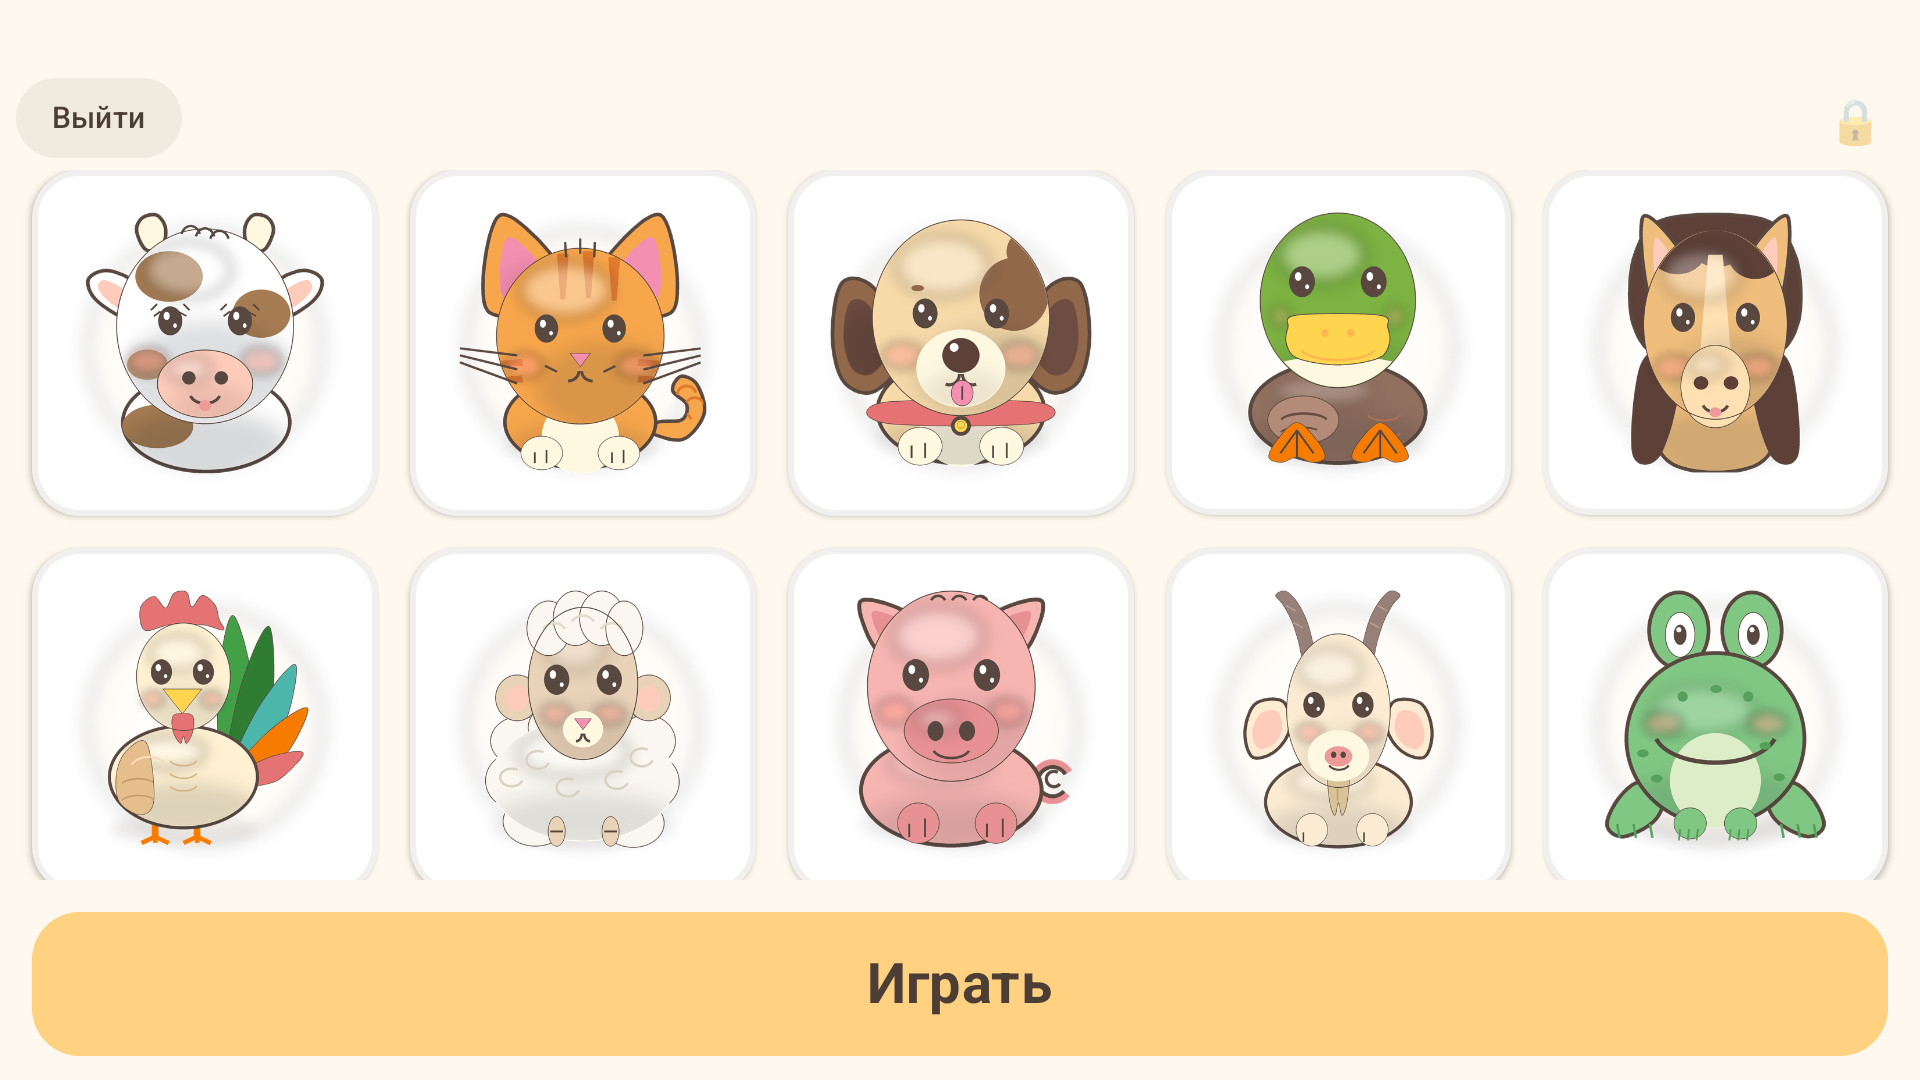
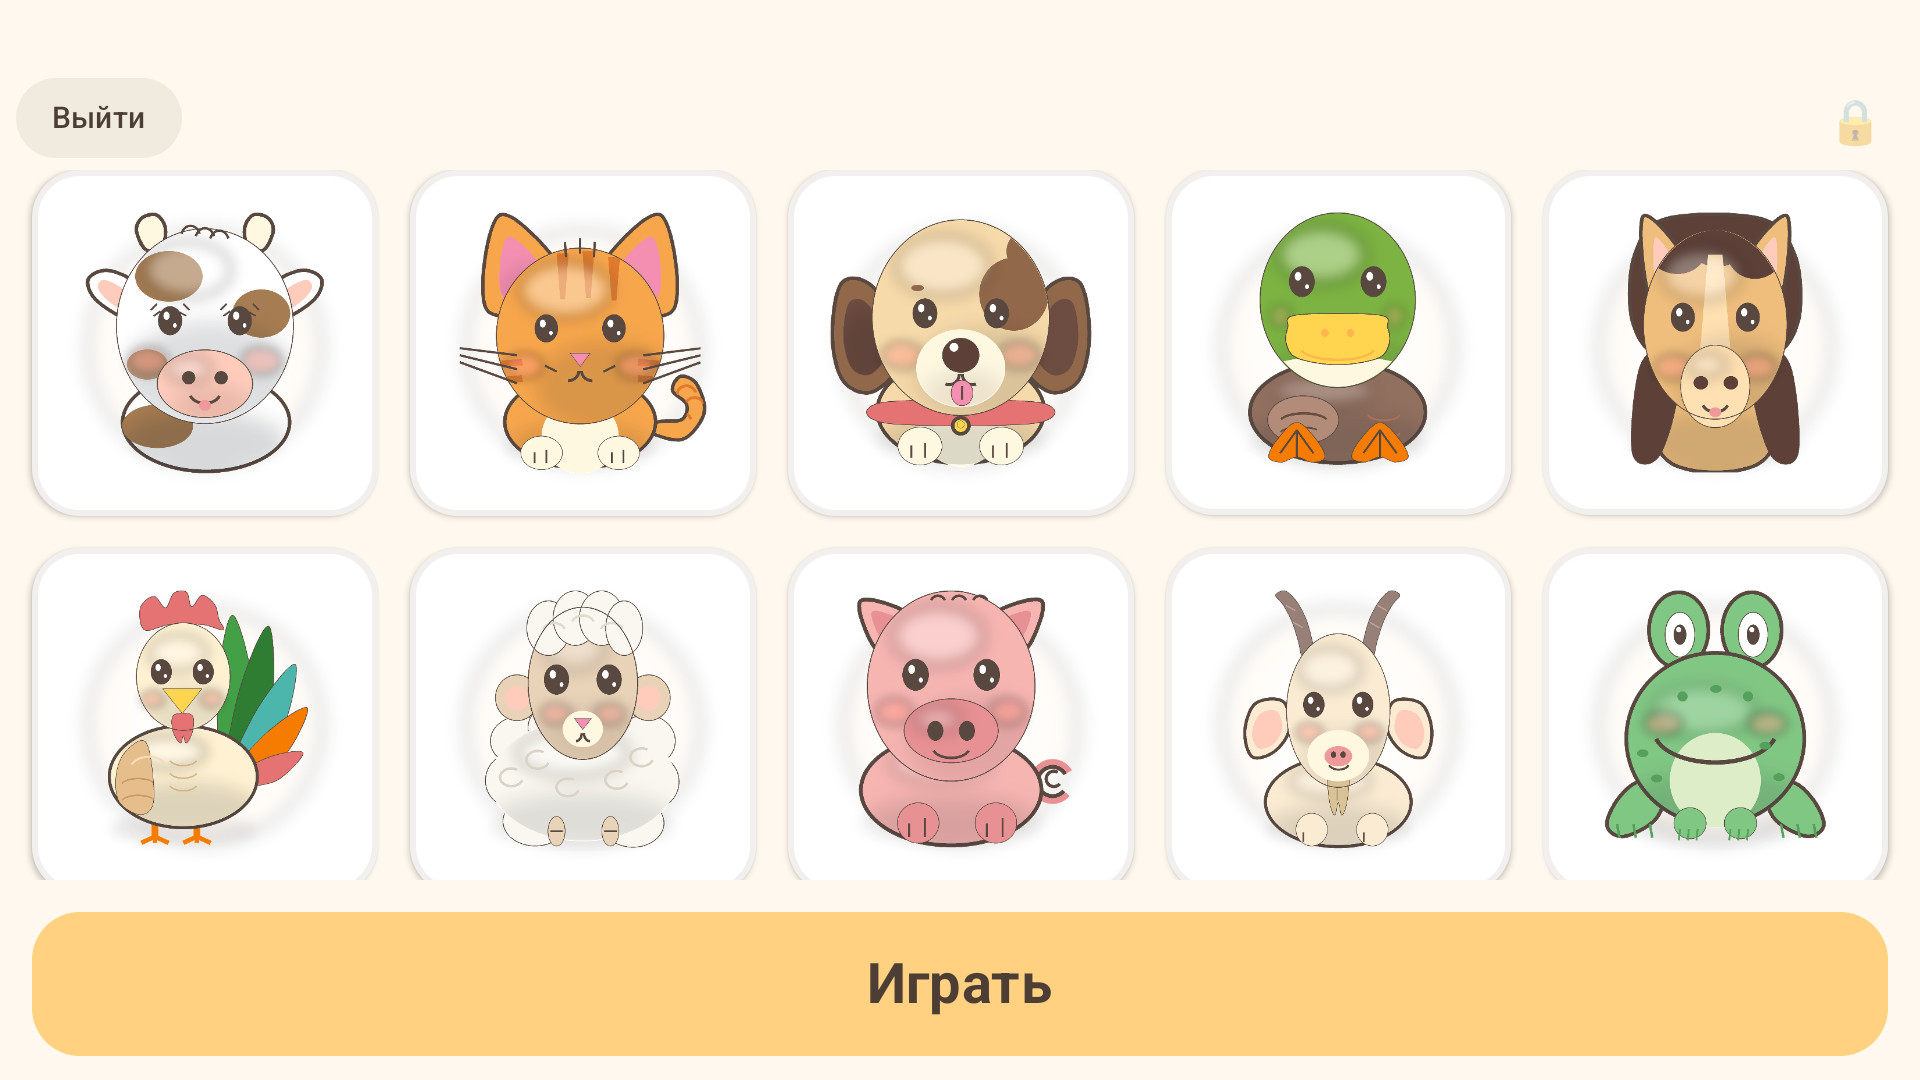
Add close-up screenshot to the store listing
The capture script now opens the close-up card right after the sandbox
shot, so the listing shows the feature itself. The remaining shots are
renumbered (03-guess, 04-parents, 05-privacy) and the docs follow.

diff --git a/README.md b/README.md
@@ -131,18 +131,20 @@ receiver'ов — оно не показывается пользователю 
 
 - [x] **Отправка в RuStore.** AAB 0.3.1 (versionCode 4) загружен, карточка
   заполнена по `store/listing-ru.md` и `store/rustore-technical-form.md`,
-  заявка отправлена на модерацию 26 ноября 2026. Скриншоты — четыре кадра
-  16:9 в `store/screenshots/`; при отказе валидатора на конкретный кадр
-  сначала проверяются сетевые ошибки загрузки в DevTools, затем комплект
-  переснимается в 1280×720 (`SIZE=1280x720 tools/capture_store_screenshots.sh`).
+  заявка отправлена на модерацию 26 ноября 2026. Скриншоты 0.3.1 — четыре
+  кадра 16:9 в `store/screenshots/` (в 0.4.0 добавлен кадр крупного плана);
+  при отказе валидатора на конкретный кадр сначала проверяются сетевые
+  ошибки загрузки в DevTools, затем комплект переснимается в 1280×720
+  (`SIZE=1280x720 tools/capture_store_screenshots.sh`).
 
 Осталось:
 
 - [ ] Дождаться решения модерации RuStore; при замечаниях — правки карточки
   или сборки и повторная отправка.
-- [ ] **0.4.0 «Крупный план»**: собрать AAB (versionCode 5), добавить кадр
-  увеличенного животного в комплект магазина и отправить новой версией —
-  отдельно от 0.3.1, которая уже на модерации.
+- [ ] **0.4.0 «Крупный план»**: AAB (versionCode 5) собран, кадр увеличенного
+  животного добавлен в комплект магазина (`02-closeup-1920x1080.jpg`);
+  осталось загрузить новой версией — отдельно от 0.3.1, которая уже на
+  модерации.
 - [ ] Проверить на Android 8.0, телефоне с 2 ГБ RAM и планшете 10″; проверить
   запись и отзыв разрешения микрофона, а также озвучку названий животных
   (нужен установленный русский голос TTS; без него названия пропускаются,
@@ -302,6 +304,13 @@ $SDK/emulator/emulator -avd whosayswhat -no-window -no-audio -gpu swiftshader_in
   и пройти раунд: карточка читается как «Корова, кнопка, Выбрать», после
   нажатия звучит «Верно» или «Не то, попробуй ещё», эмодзи не читаются.
   Тексты и условия объявления закреплены `GuessCardSemanticsTest`.
+- **Крупный план.** Тап по животному в песочнице открывает увеличенную
+  карточку: звук играет сразу, название — голосом синтезатора, окно
+  закрывается само за 2,5–6,5 с. Повторный тап по карточке повторяет звук,
+  тап по затемнённому фону и Back возвращают к животным. Для TalkBack
+  карточка — одна кнопка «Корова. Му-у-у!», а фон в дерево не попадает:
+  `adb shell uiautomator dump` должен показать единственный кликабельный
+  узел с этим `content-desc` и ни одного отдельного «Корова» / «Му-у-у!».
 
 ## Материалы для RuStore
 
@@ -313,8 +322,8 @@ $SDK/emulator/emulator -avd whosayswhat -no-window -no-audio -gpu swiftshader_in
   типы данных, обоснование разрешения, интеграции, минимальная версия Android.
 - `store/privacy-policy.md` / `.html` — политика конфиденциальности.
 - `store/assets/icon-512.png`, `feature-1024x500.png` — иконка и баннер.
-- `store/screenshots/01-sandbox-1920x1080.jpg` … `04-privacy-1920x1080.jpg` —
-  четыре экрана 16:9 для карточки RuStore; переснимаются скриптом
+- `store/screenshots/01-sandbox-1920x1080.jpg` … `05-privacy-1920x1080.jpg` —
+  пять экранов 16:9 для карточки RuStore; переснимаются скриптом
   `tools/capture_store_screenshots.sh`.
 - `THIRD_PARTY_NOTICES.md`, `app/src/main/assets/licenses/animal-sounds.md` —
   атрибуция звуков; в приложении она открывается из панели родителей.

diff --git a/store/listing-ru.md b/store/listing-ru.md
@@ -244,12 +244,13 @@
 Порядок и подписи для карточки (файлы в `store/screenshots/`):
 
 1. `01-sandbox-1920x1080.jpg` — «Нажми на животное — услышишь его голос».
-2. `02-guess-1920x1080.jpg` — «Угадай, кто говорит: 2, 3 или 4 карточки».
-3. `03-parents-1920x1080.jpg` — «Родителям: прогресс, настройки игры и „Эхо“».
-4. `04-privacy-1920x1080.jpg` — «Офлайн, без рекламы и без сбора данных».
+2. `02-closeup-1920x1080.jpg` — «Корова. Му-у-у!» — крупный план и озвучка названия.
+3. `03-guess-1920x1080.jpg` — «Угадай, кто говорит: 2, 3 или 4 карточки».
+4. `04-parents-1920x1080.jpg` — «Родителям: прогресс, настройки игры и „Эхо“».
+5. `05-privacy-1920x1080.jpg` — «Офлайн, без рекламы и без сбора данных».
 
 Минимум для отправки на модерацию — три скриншота, максимум — десять,
-так что первые три обязательны, четвёртый усиливает карточку.
+так что первые три обязательны, четвёртый и пятый усиливают карточку.
 
 Пересъёмка одной командой (эмулятор запущен, debug APK собран):
 
@@ -259,10 +260,10 @@ tools/capture_store_screenshots.sh
 ```
 
 Скрипт сам выставляет на эмуляторе `wm size 1920x1080`, проходит по экранам
-(песочница → «Играть» → панель родителей тремя тапами по замку → прокрутка
-до блока «Приватность»), сохраняет JPG и печатает разрешение с весом каждого
-файла. Отладочных плашек и уведомлений на кадрах нет; после снятия размер
-экрана эмулятора возвращается к исходному.
+(песочница → крупный план коровы → «Играть» → панель родителей тремя тапами по
+замку → прокрутка до блока «Приватность»), сохраняет JPG и печатает
+разрешение с весом каждого файла. Отладочных плашек и уведомлений на кадрах
+нет; после снятия размер экрана эмулятора возвращается к исходному.
 
 JPEG собирается Pillow со встроенным профилем sRGB, без EXIF и служебного
 Photoshop-блока и без прореживания цвета (4:4:4) — меньше поводов для отказа
